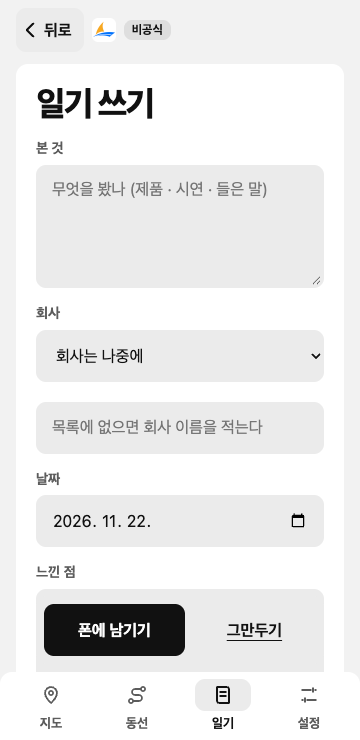
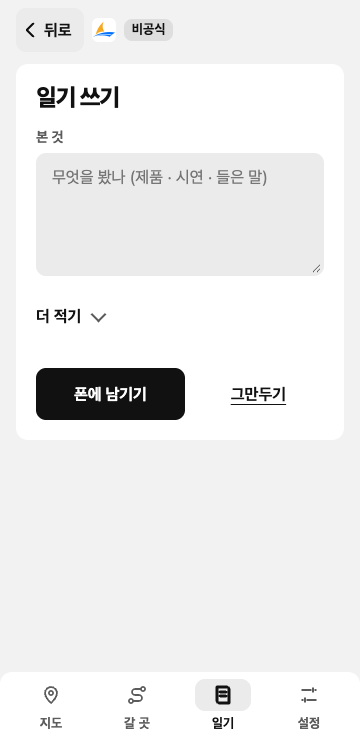
일기 쓰기 첫 화면을 본 것 + 폰에 남기기로 줄인다 (편의성 점검 6절 3 · 12번)
나머지 칸(회사 · 날짜 · 느낀 점 · 사진 · 누구에게 · 대화)은 "더 적기" 아래 접는다. 다녀옴에서 열 때도 일기 탭에서 새로 쓸 때도 같고, 다녀옴에서 열면 제목 아래에 회사 이름 한 줄이 보인다.
적힌 칸이 있는 일기를 고칠 때는 펴 두고, 접힌 칸이 틀리면 펴고 알린다.
다녀옴 띠는 6초 대신 다음에 무엇을 누를 때까지 있고, 띠가 있는 동안 아래 여백을 띠 높이만큼 늘린다.

diff --git a/docs/board/board.single.html b/docs/board/board.single.html
@@ -870,7 +870,7 @@ window.BOARD = {
     {f: 'parts', id: 'ai_plan', t: 'aiface', n: '갈 곳 · 시간과 일정', s: 'done', c: 'web/views/plan.js · web/plancard.js · web/views/days.js · web/views/sessions.js · web/bands.js', d: '날짜 한 줄 · 다음에 갈 곳 한 곳 크게 · 그다음 곳들 · 다녀온 곳 접기 · 회사 카드 · 목록 고치기', ch: '11/24 · 안 1(다음 한 곳 크게)로 다시 지었다. 탭 이름은 "갈 곳"'},
     {f: 'parts', id: 'ai_map', t: 'aiface', n: '지도 (2D · 3D)', s: 'part', c: 'web/views/map.js · web/mapgesture.js · web/mapmath.js · web/mapsheet.js · web/map3d.js', d: '확대 단계 셋 · 홀 칩 · 찾기 칸 · 아래 카드 · 내 갈 곳 · 내 위치 · 길 안내', ch: '11/23 · 폰에서 찾은 것(카드 닫기 × · 찾기 지우기 ×)'},
     {f: 'parts', id: 'ai_talk', t: 'aiface', n: '듣기', s: 'part', c: 'web/views/listen.js', d: '받아 적어 초안'},
-    {f: 'parts', id: 'ai_diary', t: 'aiface', n: '일기', s: 'done', c: 'web/views/diary.js · web/people-ui.js', d: '맨 위 만난 사람 세 명 · 날짜별 일기 · 일기 카드 · 보내기 띠 · 쓰기(본 것 한 칸)', ch: '11/22 · 다시 짓기 6단계: 일기 첫 묶음이 만난 사람, 듣기 · 대화는 일기 쓰기 안으로'},
+    {f: 'parts', id: 'ai_diary', t: 'aiface', n: '일기', s: 'done', c: 'web/views/diary.js · web/people-ui.js', d: '맨 위 만난 사람 세 명 · 날짜별 일기 · 일기 카드 · 보내기 띠 · 쓰기(본 것 한 칸 + 더 적기)', ch: '11/24 · 일기 쓰기 첫 화면을 본 것 + 폰에 남기기로 줄이고 나머지 칸은 "더 적기" 아래 접었다'},
     {f: 'parts', id: 'ai_talkbox', t: 'aiface', n: '대화 칸', s: 'part', c: 'web/views/talk.js', d: '듣기 · 붙여넣기 · 손으로', ch: '11/22'},
     {f: 'parts', id: 'ai_people', t: 'aiface', n: '남의 명함 받기', s: 'part', c: 'web/views/people.js · web/people-ui.js', d: '카메라 · 주소 붙여넣기 · 읽자마자 저장 · 만난 사람 카드', ch: '11/22 · 읽자마자 저장, 같은 사람은 합침'},
     {f: 'parts', id: 'ai_transit', t: 'aiface', n: '공식 셔틀', s: 'part', c: 'web/views/transit.js', d: '노선 · 시간 · 출처 · 확인 필요'},
@@ -1100,12 +1100,12 @@ window.BOARD = {
       ai_people: {name: '남의 명함 받기', kind: '화면', one: '카메라로 읽고 만난 사람으로 남긴다', what: '카메라가 되는 곳은 QR을 읽고, 안 되는 곳은 주소나 아이디를 넣는다.', why: '남의 명함도 명함 교환으로 폰에 남기려고 한다.', how: ['깃허브 · 디스코드 · 링크드인 · https 주소만 받는다', '읽자마자(또는 붙여 넣자마자) 폰에 남기고 이름 적기 카드를 연다. 같은 사람은 새 줄 없이 "이미 있다"', '별명 · 만난 곳 · 메모는 카드에서 나중에 고친다', '회사 일기 쓰기와 만난 사람 수를 잇는다'], rules: ['서버로 보내지 않고 ces2027.people.v1에만 둔다', '카메라가 없거나 권한이 거부되면 주소 붙여넣기 길을 보인다'], fails: ['실제 폰 카메라와 사파리는 아직 확인하지 못했다'], files: ['web/views/people.js', 'web/people-ui.js', 'web/people.js', 'web/scan.js', 'web/people-store.js']},
       ai_find: {name: '찾기 칸 · 추천', kind: '화면', one: '지도 위 찾기 칸과 갈 곳 아래 추천 회사에서 관심에 담는다', what: '지도 탭 맨 위의 찾기 칸(이름 · 분야 · 부스 번호)과 갈 곳 탭 아래의 추천 회사(#/rec).', why: '전시사가 많아 고르는 길이 여럿 있어야 한다.', how: ['낱말은 찾기 코어(WASM)가 찾는다', '영어 낱말(세 글자 이상)이면 회사 두 줄 다음에 세션이 두 줄까지. 누르면 세션 일정이 그 제목으로 찾은 채 열린다(세션 자료는 글자를 칠 때 받는다)', '글자가 있으면 칸 오른쪽에 지우기(×): 누르면 칸이 비고 결과 줄이 닫힌다', '추천: 전체 · 혁신상 · 한국 · 내 분야로 걸러 까닭과 같이 보인다'], calls: ['추천', '찾기 코어'], rules: ['추천은 공식 자료만 근거로 한다'], files: ['web/mapfind.js', 'web/views/rec.js', 'web/company.js']},
       ai_list: {name: '전시사 목록', kind: '화면', one: '전시사 전부를 이름순 · 부스순으로 보고 걸러 관심에 담는다', what: '지도 칩 줄 맨 앞 "목록"(#/list). 공식 앱의 전시사 A–Z 목록을 우리 앱에 둔 것이다.', why: '공식 앱은 목록이 중심이다. 지도만으로는 3,751곳을 훑어보기 어렵다.', how: ['이름순: A ~ Z, 숫자 · 기호로 시작하면 맨 끝 #. 위에 붙은 글자 줄로 바로 간다', '부스순: 위치 묶음 차례 → 부스 번호. 위치 줄로 바로 간다', '거르기: 혁신상 · 한국은 누르면 켜고 끄고, 위치 · 나라 · 분야는 고르는 창(회사 수와 같이)', '찾기: 영문 · 숫자는 이름 · 부스 번호로 바로, 한글은 찾기 코어(한글 별칭 · 분야 이름)', '줄은 60개씩 내릴 때 붙인다. 줄을 누르면 지도에서 그 회사 카드, 뒤로 오면 거르기와 보던 자리가 남는다'], calls: ['찾기 코어'], rules: ['자료는 이 화면을 열 때 받는다(첫 화면에 싣지 않는다)', '고른 거르기는 화면을 떠나도 남지만 폰 저장소에는 두지 않는다'], files: ['web/views/list.js', 'web/exlist.js', 'web/hallgroups.js']},
-      ai_plan: {name: '갈 곳 · 시간과 일정', kind: '화면', one: '지금 어디로 가지? 다음 한 곳을 크게', what: '갈 곳 화면(날짜 한 줄, 다음에 갈 곳 한 곳 크게, 그다음 곳들, 다녀온 곳 접기, 목록 고치기 · 지도에서 보기, 큰 회사 카드), 추천 회사, 내 시간(시간과 일정), 강연 일정.', why: '처음 보는 사람도 화면에서 가장 큰 것을 보고 다음에 갈 곳을 안다. 볼 곳을 시간 안에 넣어야 하루가 된다.', how: ['날짜 한 줄 "‹ 1월 6일 (수) · 남은 4곳 ›"로 날을 넘긴다. 남은 곳은 그 날 회사 가운데 다녀왔다를 누르지 않은 곳이다(내 일정은 세지 않는다, 다 다녀왔으면 "다 다녀옴"). 1/5(전시 전날)는 그 날 넣은 내 일정이 있을 때만, "날짜 없음"은 날짜 없는 곳이 있을 때만 보인다(1/4 매체 전용은 없다)', '다음에 갈 곳: 고른 날의 첫 안 간 곳의 이름 · 부스 · 때, 검정 "길 안내" 하나와 글자 "다녀왔다"', '그다음 곳들: 번호는 지도 번호와 같고, 내 일정은 번호 없는 점선 칸으로 때에 맞는 자리에 선다', '"다녀왔다"를 누르면 그 곳이 "다녀온 곳 n · 보기" 한 줄로 접히고 "일기 쓰기"가 6초 뜬다. 펼친 줄의 "다녀옴" 칸으로 되돌린다', '날짜 없는 곳(지도에서 관심만 담은 곳)이 있으면 어느 날에서나 알린다: 그 날이 비었으면 검정 단추 "날짜 없는 곳 n곳 보기", 아니면 다녀온 곳 줄 아래 작은 한 줄. 누르면 "날짜 없음" 날로 가고 이름을 눌러 날짜를 고른다', '줄을 누르면 큰 회사 카드(길 안내 · 다녀왔다 · 일기 쓰기 · 공식 쪽 · 부스 자리마다 한 줄 · 이 회사 강연 · 다른 날로 옮기기 · 갈 곳에서 빼기). 1/5로는 옮기지 못한다', '목록 고치기: 날짜 없는 곳을 날마다 나누기(쓸 시간과 내 일정을 뺀다) · 가까운 곳끼리 줄 세우기 · 다른 사람에게 보내기(폰의 공유 창) · 하루에 볼 곳 · 받은 목록 넣기', '날마다 "몇 시쯤"과 내 일정을 같이 보인다', '문서 · 표 파일로 내보내기와 시간 · 일정 파일은 설정에 있다'], rules: ['검정 단추는 화면에 "길 안내" 하나', '1/5에는 회사를 넣지 못한다(내 일정만)', '우리 일정은 폰에만 둔다. 레포에 넣지 않는다', '일정은 바뀔 수 있다고 보인다 (운영팀 안내가 먼저)'], calls: ['걷는 차례 · 날 나누기'], files: ['web/views/plan.js', 'web/plancard.js', 'web/views/days.js', 'web/views/sessions.js', 'web/company-extra.js', 'web/bands.js', 'docs/디자인/동선_쉽게_안.md', 'docs/내일정_파일.md'], ch: '2026-11-24 · 안 1(다음 한 곳 크게)로 다시 지었다. 탭 이름 "동선" → "갈 곳", 날짜 칩 → 날짜 한 줄(같은 날 남은 곳 수를 글자로 더함), "안 본 곳" 칩 대신 다녀온 곳 접기. 같은 날 "날짜 없는 곳 n곳 보기"를 더했다(편의성 점검 6절 1번)'},
+      ai_plan: {name: '갈 곳 · 시간과 일정', kind: '화면', one: '지금 어디로 가지? 다음 한 곳을 크게', what: '갈 곳 화면(날짜 한 줄, 다음에 갈 곳 한 곳 크게, 그다음 곳들, 다녀온 곳 접기, 목록 고치기 · 지도에서 보기, 큰 회사 카드), 추천 회사, 내 시간(시간과 일정), 강연 일정.', why: '처음 보는 사람도 화면에서 가장 큰 것을 보고 다음에 갈 곳을 안다. 볼 곳을 시간 안에 넣어야 하루가 된다.', how: ['날짜 한 줄 "‹ 1월 6일 (수) · 남은 4곳 ›"로 날을 넘긴다. 남은 곳은 그 날 회사 가운데 다녀왔다를 누르지 않은 곳이다(내 일정은 세지 않는다, 다 다녀왔으면 "다 다녀옴"). 1/5(전시 전날)는 그 날 넣은 내 일정이 있을 때만, "날짜 없음"은 날짜 없는 곳이 있을 때만 보인다(1/4 매체 전용은 없다)', '다음에 갈 곳: 고른 날의 첫 안 간 곳의 이름 · 부스 · 때, 검정 "길 안내" 하나와 글자 "다녀왔다"', '그다음 곳들: 번호는 지도 번호와 같고, 내 일정은 번호 없는 점선 칸으로 때에 맞는 자리에 선다', '"다녀왔다"를 누르면 그 곳이 "다녀온 곳 n · 보기" 한 줄로 접히고 "일기 쓰기" 띠가 다음에 무엇을 누를 때까지 뜬다(띠가 있는 동안 아래 여백을 띠 높이만큼 늘린다). 펼친 줄의 "다녀옴" 칸으로 되돌린다', '날짜 없는 곳(지도에서 관심만 담은 곳)이 있으면 어느 날에서나 알린다: 그 날이 비었으면 검정 단추 "날짜 없는 곳 n곳 보기", 아니면 다녀온 곳 줄 아래 작은 한 줄. 누르면 "날짜 없음" 날로 가고 이름을 눌러 날짜를 고른다', '줄을 누르면 큰 회사 카드(길 안내 · 다녀왔다 · 일기 쓰기 · 공식 쪽 · 부스 자리마다 한 줄 · 이 회사 강연 · 다른 날로 옮기기 · 갈 곳에서 빼기). 1/5로는 옮기지 못한다', '목록 고치기: 날짜 없는 곳을 날마다 나누기(쓸 시간과 내 일정을 뺀다) · 가까운 곳끼리 줄 세우기 · 다른 사람에게 보내기(폰의 공유 창) · 하루에 볼 곳 · 받은 목록 넣기', '날마다 "몇 시쯤"과 내 일정을 같이 보인다', '문서 · 표 파일로 내보내기와 시간 · 일정 파일은 설정에 있다'], rules: ['검정 단추는 화면에 "길 안내" 하나', '1/5에는 회사를 넣지 못한다(내 일정만)', '우리 일정은 폰에만 둔다. 레포에 넣지 않는다', '일정은 바뀔 수 있다고 보인다 (운영팀 안내가 먼저)'], calls: ['걷는 차례 · 날 나누기'], files: ['web/views/plan.js', 'web/plancard.js', 'web/views/days.js', 'web/views/sessions.js', 'web/company-extra.js', 'web/bands.js', 'docs/디자인/동선_쉽게_안.md', 'docs/내일정_파일.md'], ch: '2026-11-24 · 안 1(다음 한 곳 크게)로 다시 지었다. 탭 이름 "동선" → "갈 곳", 날짜 칩 → 날짜 한 줄(같은 날 남은 곳 수를 글자로 더함), "안 본 곳" 칩 대신 다녀온 곳 접기. 같은 날 "날짜 없는 곳 n곳 보기"를 더했다(편의성 점검 6절 1번). 다녀옴 띠는 6초 대신 다음 누름까지(6절 3 · 12번)'},
       ai_map: {name: '지도 (2D · 3D)', kind: '화면', one: '내 자리 · 부스 · 길 안내', what: '2D 지도가 기본, 3D는 누를 때 불러온다.', why: '이동하는 것이 곧 내가 움직이는 것으로 보이게.', how: ['두 손가락 벌리기 · 두 번 톡 · 끌기. 확대 단계는 캠퍼스 → 홀 → 부스', '확대할수록 홀 이름 → 큰 회사 · 관심 회사 이름 → 부스 번호와 회사 이름 (글자 13px 이상, 겹치면 숨김)', '위 홀 칩을 누르면 그 홀로 날아간다', '맨 위 찾기 칸에서 회사를 찾으면 그 부스로 날아가 카드가 열린다', '회사를 누르면 아래에서 올라오는 카드: 관심 담기 · 갈 곳에 넣기(1/6 ~ 1/9) · 여기까지 길 · 부스가 둘 이상이면 자리마다 한 줄 · 이 회사 세션(제목이 밝힌 이름이 회사 이름과 같은 것만)', '카드는 손잡이를 끌거나(아래로 끌면 닫힘) 오른쪽 위 ×로 닫는다. ×는 카드만 닫고 길 안내는 그대로 둔다. 카드가 열려 있는 동안 페이지는 위아래로 당겨지지 않는다', '카드는 열 때마다 맨 위부터 보인다. 카드 자리에서 시작한 끌기 · 바퀴는 뒤의 지도가 받지 않는다. 찾는 글자를 넣기 시작하면 열려 있던 카드를 닫는다(결과 줄이 가려지지 않게)', '오늘 갈 곳의 회사에 번호 점과 이은 선. 갈 곳 탭에서 "지도에서 보기"로 오면 그 날 번호만 진하고 위에 "1/6 갈 곳 5곳만 보는 중 · 모두 보기"', '아래 "다음 갈 곳" 띠는 고른 날의 회사만 보이고, 그 날 남은 곳이 없으면 띠가 없다', '카드의 "길 안내 시작": 선 · 남은 거리 · 걸어서 몇 분 · 방향, 걸으면 지도가 따라온다 (web/nav.js)', '길 판은 다음에 누를 것을 판 안에 둔다: 위치를 못 쓰면 "가까운 부스 번호" 칸 + 맞추기, 다른 캠퍼스면 "구글맵으로 가기" + "셔틀 보기"(검정 단추는 판에 하나)', '전시사 자료는 홀로 가까이 갈 때 그 홀의 것만 받는다', '셔틀 · 오가는 법(#/transit)으로 간다', '부스에 "명함 넣는 이벤트 있음"을 표시한다 (붉은 테두리)', '내 일정의 공개 장소도 같이 보인다'], rules: ['짐작한 부스 자리는 "짐작"이라고 보인다', '홀 입구·큰 통로 경로도 정식 배치도 전까지 "짐작"이라고 보인다', '구글맵은 링크만 쓴다 (키 없음)'], fails: ['짐작 경로 자료는 data/indoor-paths-guess.json 한 파일에서 바꾼다'], calls: ['위치 · 길 안내', '구글맵 링크'], files: ['web/views/map.js', 'web/mapgesture.js', 'web/mapmath.js', 'web/mapsheet.js', 'web/mapfind.js', 'web/map3d.js', 'web/geo.js', 'scripts/split-halls.mjs', 'data/indoor-paths-guess.json']},
       ai_talk: {name: '듣기', kind: '화면', one: '상대의 영어를 받아 적는다', what: '듣기(#/listen).', why: '부스에서 들은 것을 일기로 잇는다.', how: ['녹음을 알리는 영어 한 줄을 크게 띄우거나 읽어 준다', '듣기: 영어 받아쓰기 뒤 일기 초안', '모델은 크기와 와이파이 안내를 보고 확인한 뒤 받는다 (기본 끔)'], rules: ['첫 화면(지도)에는 모델을 싣지 않는다', '못 하는 것은 숨기지 않고 "이 폰에서는 안 됨"으로 보인다', '폰의 음성 인식 서비스는 한 번 확인받은 뒤에만', '번역은 하지 않는다 (11/22에 지웠다)'], fails: ['실제 폰에서는 아직 확인하지 못했다'], calls: ['말 기능'], files: ['web/views/listen.js', 'data/speech-model.json', 'docs/물어볼말_듣기.md']},
       ai_talkbox: {name: '대화 칸', kind: '화면', one: '회사마다 대화를 넣고 일기 초안으로 잇는다', what: '대화 칸(#/talk/<회사>): 듣기 · 붙여넣기 · 손으로.', why: '부스에서 나눈 대화를 일기로 남기려고.', how: ['복사한 대화를 붙여 넣으면 줄마다 영어 / 한국어로 나누고 위 줄 · 아래 줄 짝을 짓는다', '짝을 못 지으면 한 덩어리로 둔다', '상대 · 나를 바꿀 수 있다', '저장하면 일기 초안이 된다 (들은 것은 상대가 한 영어 원문 줄만)'], rules: ['첫 화면(지도)에 싣지 않는다', '대화는 폰에만 남는다', '녹음하지 않는다'], fails: ['실제 폰에서는 아직 확인하지 못했다'], calls: ['대화 셈'], files: ['web/views/talk.js', 'docs/물어볼말_듣기.md']},
       ac_talk: {name: '대화 셈', kind: '셈', one: '붙인 글을 나눈다', what: 'splitPaste는 붙인 글을 줄로 가르고(이름표 · 시간 · 앱 이름을 떼고) 글자로 영어 / 한국어를 가려 위 줄 · 아래 줄 짝을 짓는다.', why: '화면과 따로 두어 Node에서도 시험한다. 붙인 글에 없는 말을 만들지 않는다.', how: ['한글이 글자의 4분의 1 이상이면 한국어', '줄이 번갈아 나오거나 같은 수의 덩이가 번갈아 나오면 짝, 아니면 한 덩어리'], api: ['splitPaste · handPair · heardOf · draftFromTalk · makeTalk · talkOut'], rules: ['스스로 어디로도 보내지 않는다'], fails: ['복사된 대화가 실제로 어떤 모양인지는 폰에서 확인 전이라, 예시 글 셋으로만 시험했다'], files: ['web/talk.js', 'scripts/smoke.mjs', 'scripts/browser-talk.mjs']},
-      ai_diary: {name: '일기', kind: '화면', one: '본 것 · 느낀 점 · 누구에게', what: '회사마다 쓰는 일기와 보내기.', why: '다녀와서 네 태그로 나누는 재료다.', how: ['듣기와 대화 칸에서 온 초안을 다듬어 남긴다', '보내기를 누르면 아직 보내지 않은 일기가 파일로 내려온다 (이어진 대화도 그 파일에 든다)'], rules: ['보내기를 누른 일기만 밖으로 나간다', '초안과 녹음은 보내지 않는다. 대화는 파일로 내려받을 때만 든다'], files: ['web/views/diary.js', 'web/diary.js']},
+      ai_diary: {name: '일기', kind: '화면', one: '본 것 · 느낀 점 · 누구에게', what: '회사마다 쓰는 일기와 보내기.', why: '다녀와서 네 태그로 나누는 재료다.', how: ['일기 쓰기 첫 화면은 "본 것" 칸 + "폰에 남기기"뿐이다. 회사 · 날짜 · 느낀 점 · 사진 · 누구에게 · 대화는 "더 적기" 아래 접는다(다녀옴에서 열면 제목 아래 회사 이름 한 줄)', '적힌 칸이 있는 일기를 고칠 때는 펴 둔다. 접힌 칸이 틀리면 펴고 알린다', '듣기와 대화 칸에서 온 초안을 다듬어 남긴다', '보내기를 누르면 아직 보내지 않은 일기가 파일로 내려온다 (이어진 대화도 그 파일에 든다)'], rules: ['보내기를 누른 일기만 밖으로 나간다', '초안과 녹음은 보내지 않는다. 대화는 파일로 내려받을 때만 든다'], files: ['web/views/diary.js', 'web/diary.js']},
       ai_transit: {name: '공식 셔틀', kind: '화면', one: '호텔 · Tech Express · C Space 셔틀을 본다', what: '노선별 다니는 곳 · 시간 · 타는 곳 · 구글맵 주소와 출처.', why: '캠퍼스 사이와 호텔 사이 이동을 공식 자료로 준비하려고 한다.', how: ['공식 안내와 무료 교통 전단을 줄마다 읽는다', '시간과 다니는 날이 다르면 확인 필요로 보인다'], rules: ['작년 시간표를 2027로 쓰지 않는다', '실시간 혼잡은 서버 자료가 없어 보이지 않는다'], fails: ['C Space 다니는 날과 교통 허브 주소를 공식 교통 안내로 확인해야 한다'], files: ['web/views/transit.js', 'web/transit.js', 'data/transit.json']},
       ac_route: {name: '걷는 차례 · 날 나누기', kind: '셈', one: '관심 회사를 날짜와 걷는 차례로 세운다', what: '캠퍼스 · 홀 · 통로 차례와, 날마다 볼 수 있는 곳의 수.', why: '화면과 따로 두어 시험할 수 있게.', how: ['날마다 쓸 시간에서 내 일정을 빼고 한 곳에 쓰는 시간으로 나눈다', '제 날에 먼저 넣고 넘치면 다음 날로 넘긴다', '사람이 정한 날은 옮기지 않는다'], api: ['fillDays · sortRoute · nextStop', 'dayLimits · capacity · timeline · readFile · makeFile'], files: ['web/route.js', 'web/days.js']},
       ac_rec: {name: '추천', kind: '셈', one: '혁신상 · 한국 · 내 분야와 세션 주제로 추천한다', what: '공식 자료만 보고 점수를 매기고 까닭을 붙인다.', why: '왜 추천했는지 한 줄로 보여야 믿을 수 있다.', api: ['recommend · myCats · recommend sessions'], rules: ['공식 자료에 없는 것으로 추천하지 않는다'], files: ['web/recommend.js', 'web/sessions.js'], ch: '2026-11-21 · 공식 세션의 주제 추천을 더함'},

diff --git a/docs/board/board-data.js b/docs/board/board-data.js
@@ -131,7 +131,7 @@ window.BOARD = {
     {f: 'parts', id: 'ai_plan', t: 'aiface', n: '갈 곳 · 시간과 일정', s: 'done', c: 'web/views/plan.js · web/plancard.js · web/views/days.js · web/views/sessions.js · web/bands.js', d: '날짜 한 줄 · 다음에 갈 곳 한 곳 크게 · 그다음 곳들 · 다녀온 곳 접기 · 회사 카드 · 목록 고치기', ch: '11/24 · 안 1(다음 한 곳 크게)로 다시 지었다. 탭 이름은 "갈 곳"'},
     {f: 'parts', id: 'ai_map', t: 'aiface', n: '지도 (2D · 3D)', s: 'part', c: 'web/views/map.js · web/mapgesture.js · web/mapmath.js · web/mapsheet.js · web/map3d.js', d: '확대 단계 셋 · 홀 칩 · 찾기 칸 · 아래 카드 · 내 갈 곳 · 내 위치 · 길 안내', ch: '11/23 · 폰에서 찾은 것(카드 닫기 × · 찾기 지우기 ×)'},
     {f: 'parts', id: 'ai_talk', t: 'aiface', n: '듣기', s: 'part', c: 'web/views/listen.js', d: '받아 적어 초안'},
-    {f: 'parts', id: 'ai_diary', t: 'aiface', n: '일기', s: 'done', c: 'web/views/diary.js · web/people-ui.js', d: '맨 위 만난 사람 세 명 · 날짜별 일기 · 일기 카드 · 보내기 띠 · 쓰기(본 것 한 칸)', ch: '11/22 · 다시 짓기 6단계: 일기 첫 묶음이 만난 사람, 듣기 · 대화는 일기 쓰기 안으로'},
+    {f: 'parts', id: 'ai_diary', t: 'aiface', n: '일기', s: 'done', c: 'web/views/diary.js · web/people-ui.js', d: '맨 위 만난 사람 세 명 · 날짜별 일기 · 일기 카드 · 보내기 띠 · 쓰기(본 것 한 칸 + 더 적기)', ch: '11/24 · 일기 쓰기 첫 화면을 본 것 + 폰에 남기기로 줄이고 나머지 칸은 "더 적기" 아래 접었다'},
     {f: 'parts', id: 'ai_talkbox', t: 'aiface', n: '대화 칸', s: 'part', c: 'web/views/talk.js', d: '듣기 · 붙여넣기 · 손으로', ch: '11/22'},
     {f: 'parts', id: 'ai_people', t: 'aiface', n: '남의 명함 받기', s: 'part', c: 'web/views/people.js · web/people-ui.js', d: '카메라 · 주소 붙여넣기 · 읽자마자 저장 · 만난 사람 카드', ch: '11/22 · 읽자마자 저장, 같은 사람은 합침'},
     {f: 'parts', id: 'ai_transit', t: 'aiface', n: '공식 셔틀', s: 'part', c: 'web/views/transit.js', d: '노선 · 시간 · 출처 · 확인 필요'},
@@ -361,12 +361,12 @@ window.BOARD = {
       ai_people: {name: '남의 명함 받기', kind: '화면', one: '카메라로 읽고 만난 사람으로 남긴다', what: '카메라가 되는 곳은 QR을 읽고, 안 되는 곳은 주소나 아이디를 넣는다.', why: '남의 명함도 명함 교환으로 폰에 남기려고 한다.', how: ['깃허브 · 디스코드 · 링크드인 · https 주소만 받는다', '읽자마자(또는 붙여 넣자마자) 폰에 남기고 이름 적기 카드를 연다. 같은 사람은 새 줄 없이 "이미 있다"', '별명 · 만난 곳 · 메모는 카드에서 나중에 고친다', '회사 일기 쓰기와 만난 사람 수를 잇는다'], rules: ['서버로 보내지 않고 ces2027.people.v1에만 둔다', '카메라가 없거나 권한이 거부되면 주소 붙여넣기 길을 보인다'], fails: ['실제 폰 카메라와 사파리는 아직 확인하지 못했다'], files: ['web/views/people.js', 'web/people-ui.js', 'web/people.js', 'web/scan.js', 'web/people-store.js']},
       ai_find: {name: '찾기 칸 · 추천', kind: '화면', one: '지도 위 찾기 칸과 갈 곳 아래 추천 회사에서 관심에 담는다', what: '지도 탭 맨 위의 찾기 칸(이름 · 분야 · 부스 번호)과 갈 곳 탭 아래의 추천 회사(#/rec).', why: '전시사가 많아 고르는 길이 여럿 있어야 한다.', how: ['낱말은 찾기 코어(WASM)가 찾는다', '영어 낱말(세 글자 이상)이면 회사 두 줄 다음에 세션이 두 줄까지. 누르면 세션 일정이 그 제목으로 찾은 채 열린다(세션 자료는 글자를 칠 때 받는다)', '글자가 있으면 칸 오른쪽에 지우기(×): 누르면 칸이 비고 결과 줄이 닫힌다', '추천: 전체 · 혁신상 · 한국 · 내 분야로 걸러 까닭과 같이 보인다'], calls: ['추천', '찾기 코어'], rules: ['추천은 공식 자료만 근거로 한다'], files: ['web/mapfind.js', 'web/views/rec.js', 'web/company.js']},
       ai_list: {name: '전시사 목록', kind: '화면', one: '전시사 전부를 이름순 · 부스순으로 보고 걸러 관심에 담는다', what: '지도 칩 줄 맨 앞 "목록"(#/list). 공식 앱의 전시사 A–Z 목록을 우리 앱에 둔 것이다.', why: '공식 앱은 목록이 중심이다. 지도만으로는 3,751곳을 훑어보기 어렵다.', how: ['이름순: A ~ Z, 숫자 · 기호로 시작하면 맨 끝 #. 위에 붙은 글자 줄로 바로 간다', '부스순: 위치 묶음 차례 → 부스 번호. 위치 줄로 바로 간다', '거르기: 혁신상 · 한국은 누르면 켜고 끄고, 위치 · 나라 · 분야는 고르는 창(회사 수와 같이)', '찾기: 영문 · 숫자는 이름 · 부스 번호로 바로, 한글은 찾기 코어(한글 별칭 · 분야 이름)', '줄은 60개씩 내릴 때 붙인다. 줄을 누르면 지도에서 그 회사 카드, 뒤로 오면 거르기와 보던 자리가 남는다'], calls: ['찾기 코어'], rules: ['자료는 이 화면을 열 때 받는다(첫 화면에 싣지 않는다)', '고른 거르기는 화면을 떠나도 남지만 폰 저장소에는 두지 않는다'], files: ['web/views/list.js', 'web/exlist.js', 'web/hallgroups.js']},
-      ai_plan: {name: '갈 곳 · 시간과 일정', kind: '화면', one: '지금 어디로 가지? 다음 한 곳을 크게', what: '갈 곳 화면(날짜 한 줄, 다음에 갈 곳 한 곳 크게, 그다음 곳들, 다녀온 곳 접기, 목록 고치기 · 지도에서 보기, 큰 회사 카드), 추천 회사, 내 시간(시간과 일정), 강연 일정.', why: '처음 보는 사람도 화면에서 가장 큰 것을 보고 다음에 갈 곳을 안다. 볼 곳을 시간 안에 넣어야 하루가 된다.', how: ['날짜 한 줄 "‹ 1월 6일 (수) · 남은 4곳 ›"로 날을 넘긴다. 남은 곳은 그 날 회사 가운데 다녀왔다를 누르지 않은 곳이다(내 일정은 세지 않는다, 다 다녀왔으면 "다 다녀옴"). 1/5(전시 전날)는 그 날 넣은 내 일정이 있을 때만, "날짜 없음"은 날짜 없는 곳이 있을 때만 보인다(1/4 매체 전용은 없다)', '다음에 갈 곳: 고른 날의 첫 안 간 곳의 이름 · 부스 · 때, 검정 "길 안내" 하나와 글자 "다녀왔다"', '그다음 곳들: 번호는 지도 번호와 같고, 내 일정은 번호 없는 점선 칸으로 때에 맞는 자리에 선다', '"다녀왔다"를 누르면 그 곳이 "다녀온 곳 n · 보기" 한 줄로 접히고 "일기 쓰기"가 6초 뜬다. 펼친 줄의 "다녀옴" 칸으로 되돌린다', '날짜 없는 곳(지도에서 관심만 담은 곳)이 있으면 어느 날에서나 알린다: 그 날이 비었으면 검정 단추 "날짜 없는 곳 n곳 보기", 아니면 다녀온 곳 줄 아래 작은 한 줄. 누르면 "날짜 없음" 날로 가고 이름을 눌러 날짜를 고른다', '줄을 누르면 큰 회사 카드(길 안내 · 다녀왔다 · 일기 쓰기 · 공식 쪽 · 부스 자리마다 한 줄 · 이 회사 강연 · 다른 날로 옮기기 · 갈 곳에서 빼기). 1/5로는 옮기지 못한다', '목록 고치기: 날짜 없는 곳을 날마다 나누기(쓸 시간과 내 일정을 뺀다) · 가까운 곳끼리 줄 세우기 · 다른 사람에게 보내기(폰의 공유 창) · 하루에 볼 곳 · 받은 목록 넣기', '날마다 "몇 시쯤"과 내 일정을 같이 보인다', '문서 · 표 파일로 내보내기와 시간 · 일정 파일은 설정에 있다'], rules: ['검정 단추는 화면에 "길 안내" 하나', '1/5에는 회사를 넣지 못한다(내 일정만)', '우리 일정은 폰에만 둔다. 레포에 넣지 않는다', '일정은 바뀔 수 있다고 보인다 (운영팀 안내가 먼저)'], calls: ['걷는 차례 · 날 나누기'], files: ['web/views/plan.js', 'web/plancard.js', 'web/views/days.js', 'web/views/sessions.js', 'web/company-extra.js', 'web/bands.js', 'docs/디자인/동선_쉽게_안.md', 'docs/내일정_파일.md'], ch: '2026-11-24 · 안 1(다음 한 곳 크게)로 다시 지었다. 탭 이름 "동선" → "갈 곳", 날짜 칩 → 날짜 한 줄(같은 날 남은 곳 수를 글자로 더함), "안 본 곳" 칩 대신 다녀온 곳 접기. 같은 날 "날짜 없는 곳 n곳 보기"를 더했다(편의성 점검 6절 1번)'},
+      ai_plan: {name: '갈 곳 · 시간과 일정', kind: '화면', one: '지금 어디로 가지? 다음 한 곳을 크게', what: '갈 곳 화면(날짜 한 줄, 다음에 갈 곳 한 곳 크게, 그다음 곳들, 다녀온 곳 접기, 목록 고치기 · 지도에서 보기, 큰 회사 카드), 추천 회사, 내 시간(시간과 일정), 강연 일정.', why: '처음 보는 사람도 화면에서 가장 큰 것을 보고 다음에 갈 곳을 안다. 볼 곳을 시간 안에 넣어야 하루가 된다.', how: ['날짜 한 줄 "‹ 1월 6일 (수) · 남은 4곳 ›"로 날을 넘긴다. 남은 곳은 그 날 회사 가운데 다녀왔다를 누르지 않은 곳이다(내 일정은 세지 않는다, 다 다녀왔으면 "다 다녀옴"). 1/5(전시 전날)는 그 날 넣은 내 일정이 있을 때만, "날짜 없음"은 날짜 없는 곳이 있을 때만 보인다(1/4 매체 전용은 없다)', '다음에 갈 곳: 고른 날의 첫 안 간 곳의 이름 · 부스 · 때, 검정 "길 안내" 하나와 글자 "다녀왔다"', '그다음 곳들: 번호는 지도 번호와 같고, 내 일정은 번호 없는 점선 칸으로 때에 맞는 자리에 선다', '"다녀왔다"를 누르면 그 곳이 "다녀온 곳 n · 보기" 한 줄로 접히고 "일기 쓰기" 띠가 다음에 무엇을 누를 때까지 뜬다(띠가 있는 동안 아래 여백을 띠 높이만큼 늘린다). 펼친 줄의 "다녀옴" 칸으로 되돌린다', '날짜 없는 곳(지도에서 관심만 담은 곳)이 있으면 어느 날에서나 알린다: 그 날이 비었으면 검정 단추 "날짜 없는 곳 n곳 보기", 아니면 다녀온 곳 줄 아래 작은 한 줄. 누르면 "날짜 없음" 날로 가고 이름을 눌러 날짜를 고른다', '줄을 누르면 큰 회사 카드(길 안내 · 다녀왔다 · 일기 쓰기 · 공식 쪽 · 부스 자리마다 한 줄 · 이 회사 강연 · 다른 날로 옮기기 · 갈 곳에서 빼기). 1/5로는 옮기지 못한다', '목록 고치기: 날짜 없는 곳을 날마다 나누기(쓸 시간과 내 일정을 뺀다) · 가까운 곳끼리 줄 세우기 · 다른 사람에게 보내기(폰의 공유 창) · 하루에 볼 곳 · 받은 목록 넣기', '날마다 "몇 시쯤"과 내 일정을 같이 보인다', '문서 · 표 파일로 내보내기와 시간 · 일정 파일은 설정에 있다'], rules: ['검정 단추는 화면에 "길 안내" 하나', '1/5에는 회사를 넣지 못한다(내 일정만)', '우리 일정은 폰에만 둔다. 레포에 넣지 않는다', '일정은 바뀔 수 있다고 보인다 (운영팀 안내가 먼저)'], calls: ['걷는 차례 · 날 나누기'], files: ['web/views/plan.js', 'web/plancard.js', 'web/views/days.js', 'web/views/sessions.js', 'web/company-extra.js', 'web/bands.js', 'docs/디자인/동선_쉽게_안.md', 'docs/내일정_파일.md'], ch: '2026-11-24 · 안 1(다음 한 곳 크게)로 다시 지었다. 탭 이름 "동선" → "갈 곳", 날짜 칩 → 날짜 한 줄(같은 날 남은 곳 수를 글자로 더함), "안 본 곳" 칩 대신 다녀온 곳 접기. 같은 날 "날짜 없는 곳 n곳 보기"를 더했다(편의성 점검 6절 1번). 다녀옴 띠는 6초 대신 다음 누름까지(6절 3 · 12번)'},
       ai_map: {name: '지도 (2D · 3D)', kind: '화면', one: '내 자리 · 부스 · 길 안내', what: '2D 지도가 기본, 3D는 누를 때 불러온다.', why: '이동하는 것이 곧 내가 움직이는 것으로 보이게.', how: ['두 손가락 벌리기 · 두 번 톡 · 끌기. 확대 단계는 캠퍼스 → 홀 → 부스', '확대할수록 홀 이름 → 큰 회사 · 관심 회사 이름 → 부스 번호와 회사 이름 (글자 13px 이상, 겹치면 숨김)', '위 홀 칩을 누르면 그 홀로 날아간다', '맨 위 찾기 칸에서 회사를 찾으면 그 부스로 날아가 카드가 열린다', '회사를 누르면 아래에서 올라오는 카드: 관심 담기 · 갈 곳에 넣기(1/6 ~ 1/9) · 여기까지 길 · 부스가 둘 이상이면 자리마다 한 줄 · 이 회사 세션(제목이 밝힌 이름이 회사 이름과 같은 것만)', '카드는 손잡이를 끌거나(아래로 끌면 닫힘) 오른쪽 위 ×로 닫는다. ×는 카드만 닫고 길 안내는 그대로 둔다. 카드가 열려 있는 동안 페이지는 위아래로 당겨지지 않는다', '카드는 열 때마다 맨 위부터 보인다. 카드 자리에서 시작한 끌기 · 바퀴는 뒤의 지도가 받지 않는다. 찾는 글자를 넣기 시작하면 열려 있던 카드를 닫는다(결과 줄이 가려지지 않게)', '오늘 갈 곳의 회사에 번호 점과 이은 선. 갈 곳 탭에서 "지도에서 보기"로 오면 그 날 번호만 진하고 위에 "1/6 갈 곳 5곳만 보는 중 · 모두 보기"', '아래 "다음 갈 곳" 띠는 고른 날의 회사만 보이고, 그 날 남은 곳이 없으면 띠가 없다', '카드의 "길 안내 시작": 선 · 남은 거리 · 걸어서 몇 분 · 방향, 걸으면 지도가 따라온다 (web/nav.js)', '길 판은 다음에 누를 것을 판 안에 둔다: 위치를 못 쓰면 "가까운 부스 번호" 칸 + 맞추기, 다른 캠퍼스면 "구글맵으로 가기" + "셔틀 보기"(검정 단추는 판에 하나)', '전시사 자료는 홀로 가까이 갈 때 그 홀의 것만 받는다', '셔틀 · 오가는 법(#/transit)으로 간다', '부스에 "명함 넣는 이벤트 있음"을 표시한다 (붉은 테두리)', '내 일정의 공개 장소도 같이 보인다'], rules: ['짐작한 부스 자리는 "짐작"이라고 보인다', '홀 입구·큰 통로 경로도 정식 배치도 전까지 "짐작"이라고 보인다', '구글맵은 링크만 쓴다 (키 없음)'], fails: ['짐작 경로 자료는 data/indoor-paths-guess.json 한 파일에서 바꾼다'], calls: ['위치 · 길 안내', '구글맵 링크'], files: ['web/views/map.js', 'web/mapgesture.js', 'web/mapmath.js', 'web/mapsheet.js', 'web/mapfind.js', 'web/map3d.js', 'web/geo.js', 'scripts/split-halls.mjs', 'data/indoor-paths-guess.json']},
       ai_talk: {name: '듣기', kind: '화면', one: '상대의 영어를 받아 적는다', what: '듣기(#/listen).', why: '부스에서 들은 것을 일기로 잇는다.', how: ['녹음을 알리는 영어 한 줄을 크게 띄우거나 읽어 준다', '듣기: 영어 받아쓰기 뒤 일기 초안', '모델은 크기와 와이파이 안내를 보고 확인한 뒤 받는다 (기본 끔)'], rules: ['첫 화면(지도)에는 모델을 싣지 않는다', '못 하는 것은 숨기지 않고 "이 폰에서는 안 됨"으로 보인다', '폰의 음성 인식 서비스는 한 번 확인받은 뒤에만', '번역은 하지 않는다 (11/22에 지웠다)'], fails: ['실제 폰에서는 아직 확인하지 못했다'], calls: ['말 기능'], files: ['web/views/listen.js', 'data/speech-model.json', 'docs/물어볼말_듣기.md']},
       ai_talkbox: {name: '대화 칸', kind: '화면', one: '회사마다 대화를 넣고 일기 초안으로 잇는다', what: '대화 칸(#/talk/<회사>): 듣기 · 붙여넣기 · 손으로.', why: '부스에서 나눈 대화를 일기로 남기려고.', how: ['복사한 대화를 붙여 넣으면 줄마다 영어 / 한국어로 나누고 위 줄 · 아래 줄 짝을 짓는다', '짝을 못 지으면 한 덩어리로 둔다', '상대 · 나를 바꿀 수 있다', '저장하면 일기 초안이 된다 (들은 것은 상대가 한 영어 원문 줄만)'], rules: ['첫 화면(지도)에 싣지 않는다', '대화는 폰에만 남는다', '녹음하지 않는다'], fails: ['실제 폰에서는 아직 확인하지 못했다'], calls: ['대화 셈'], files: ['web/views/talk.js', 'docs/물어볼말_듣기.md']},
       ac_talk: {name: '대화 셈', kind: '셈', one: '붙인 글을 나눈다', what: 'splitPaste는 붙인 글을 줄로 가르고(이름표 · 시간 · 앱 이름을 떼고) 글자로 영어 / 한국어를 가려 위 줄 · 아래 줄 짝을 짓는다.', why: '화면과 따로 두어 Node에서도 시험한다. 붙인 글에 없는 말을 만들지 않는다.', how: ['한글이 글자의 4분의 1 이상이면 한국어', '줄이 번갈아 나오거나 같은 수의 덩이가 번갈아 나오면 짝, 아니면 한 덩어리'], api: ['splitPaste · handPair · heardOf · draftFromTalk · makeTalk · talkOut'], rules: ['스스로 어디로도 보내지 않는다'], fails: ['복사된 대화가 실제로 어떤 모양인지는 폰에서 확인 전이라, 예시 글 셋으로만 시험했다'], files: ['web/talk.js', 'scripts/smoke.mjs', 'scripts/browser-talk.mjs']},
-      ai_diary: {name: '일기', kind: '화면', one: '본 것 · 느낀 점 · 누구에게', what: '회사마다 쓰는 일기와 보내기.', why: '다녀와서 네 태그로 나누는 재료다.', how: ['듣기와 대화 칸에서 온 초안을 다듬어 남긴다', '보내기를 누르면 아직 보내지 않은 일기가 파일로 내려온다 (이어진 대화도 그 파일에 든다)'], rules: ['보내기를 누른 일기만 밖으로 나간다', '초안과 녹음은 보내지 않는다. 대화는 파일로 내려받을 때만 든다'], files: ['web/views/diary.js', 'web/diary.js']},
+      ai_diary: {name: '일기', kind: '화면', one: '본 것 · 느낀 점 · 누구에게', what: '회사마다 쓰는 일기와 보내기.', why: '다녀와서 네 태그로 나누는 재료다.', how: ['일기 쓰기 첫 화면은 "본 것" 칸 + "폰에 남기기"뿐이다. 회사 · 날짜 · 느낀 점 · 사진 · 누구에게 · 대화는 "더 적기" 아래 접는다(다녀옴에서 열면 제목 아래 회사 이름 한 줄)', '적힌 칸이 있는 일기를 고칠 때는 펴 둔다. 접힌 칸이 틀리면 펴고 알린다', '듣기와 대화 칸에서 온 초안을 다듬어 남긴다', '보내기를 누르면 아직 보내지 않은 일기가 파일로 내려온다 (이어진 대화도 그 파일에 든다)'], rules: ['보내기를 누른 일기만 밖으로 나간다', '초안과 녹음은 보내지 않는다. 대화는 파일로 내려받을 때만 든다'], files: ['web/views/diary.js', 'web/diary.js']},
       ai_transit: {name: '공식 셔틀', kind: '화면', one: '호텔 · Tech Express · C Space 셔틀을 본다', what: '노선별 다니는 곳 · 시간 · 타는 곳 · 구글맵 주소와 출처.', why: '캠퍼스 사이와 호텔 사이 이동을 공식 자료로 준비하려고 한다.', how: ['공식 안내와 무료 교통 전단을 줄마다 읽는다', '시간과 다니는 날이 다르면 확인 필요로 보인다'], rules: ['작년 시간표를 2027로 쓰지 않는다', '실시간 혼잡은 서버 자료가 없어 보이지 않는다'], fails: ['C Space 다니는 날과 교통 허브 주소를 공식 교통 안내로 확인해야 한다'], files: ['web/views/transit.js', 'web/transit.js', 'data/transit.json']},
       ac_route: {name: '걷는 차례 · 날 나누기', kind: '셈', one: '관심 회사를 날짜와 걷는 차례로 세운다', what: '캠퍼스 · 홀 · 통로 차례와, 날마다 볼 수 있는 곳의 수.', why: '화면과 따로 두어 시험할 수 있게.', how: ['날마다 쓸 시간에서 내 일정을 빼고 한 곳에 쓰는 시간으로 나눈다', '제 날에 먼저 넣고 넘치면 다음 날로 넘긴다', '사람이 정한 날은 옮기지 않는다'], api: ['fillDays · sortRoute · nextStop', 'dayLimits · capacity · timeline · readFile · makeFile'], files: ['web/route.js', 'web/days.js']},
       ac_rec: {name: '추천', kind: '셈', one: '혁신상 · 한국 · 내 분야와 세션 주제로 추천한다', what: '공식 자료만 보고 점수를 매기고 까닭을 붙인다.', why: '왜 추천했는지 한 줄로 보여야 믿을 수 있다.', api: ['recommend · myCats · recommend sessions'], rules: ['공식 자료에 없는 것으로 추천하지 않는다'], files: ['web/recommend.js', 'web/sessions.js'], ch: '2026-11-21 · 공식 세션의 주제 추천을 더함'},

diff --git a/web/views/diary.js b/web/views/diary.js
@@ -68,7 +68,9 @@ function photoBox(e) {
   return box;
 }
 
-// 일기 쓰기: 필수는 "본 것" 한 칸이다. 날짜는 오늘로 채우고, 회사는 동선의 "일기"에서 오면 미리 채운다(없어도 된다).
+// 일기 쓰기: 필수는 "본 것" 한 칸이다. 날짜는 오늘로 채우고, 회사는 갈 곳의 "일기 쓰기"에서 오면 미리 채운다(없어도 된다).
+// 첫 화면은 "본 것" 칸 + "폰에 남기기"뿐이다. 나머지 칸(회사 · 날짜 · 느낀 점 · 사진 · 누구에게 · 대화)은 "더 적기" 아래 접는다(2026-11-24, 편의성 점검 6절 3번).
+// 이미 적힌 칸이 있는 일기를 고칠 때와, 적다 만 느낀 점이 돌아올 때는 펴 둔다(적힌 것이 숨지 않게).
 // 적던 글은 폰에 남겨 앱을 닫아도 돌아온다(남기기 전까지). 누구에게는 마지막에 고른 것을 기억한다.
 const DRAFT = 'diaryDraft.v1';
 const LAST_TAGS = 'diaryTags.v1';
@@ -149,24 +151,39 @@ function form(entry, preset, companies, done) {
   saw.addEventListener('input', keepDraft);
   felt.addEventListener('input', keepDraft);
 
+  // 어느 회사 일기인지: 회사 칸이 접혀 있어도 제목 아래 한 줄로 보인다(회사가 없으면 줄도 없다). 회사를 바꾸면 따라 바뀐다.
+  const whoLine = el('p', { class: 'note diary-who' });
+  const paintWho = () => { const c = companies.find((x) => x.id === pick.value); whoLine.textContent = c ? c.name : other.value.trim(); whoLine.hidden = !whoLine.textContent; };
+  pick.addEventListener('change', paintWho);
+  other.addEventListener('input', paintWho);
+  paintWho();
+  // "더 적기": 고칠 때는 적힌 칸이 하나라도 있으면 펴 둔다. 새로 쓸 때는 접어 둔다(미리 채운 회사 · 날짜 · 누구에게는 적은 것으로 치지 않는다).
+  const filled = entry ? Boolean(entry.company || entry.exId || entry.felt || entry.photo || entry.heard?.length || entry.audio || (entry.for || []).length) : Boolean(back?.felt);
+  const more = el('details', { class: 'more', open: filled },
+    el('summary', { text: '더 적기' }),
+    el('div', { class: 'more-body' },
+      field('회사', pick), field('', other),
+      field('날짜', date),
+      entry ? el('div', { class: 'entry' }, heardBox(entry), entry.audio ? el('p', { class: 'note', text: '녹음은 일기 카드에서 듣는다.' }) : null) : null,
+      field('느낀 점', felt),
+      el('div', { class: 'field photo-field' }, el('span', { class: 'label', text: '사진 (한 장, 선택)' }), photoImg, el('div', { class: 'row-actions' }, photoPick, photoDrop, photoFile), photoNote),
+      el('div', { class: 'field' }, el('span', { class: 'label', text: '누구에게 (여럿 가능)' }), tags),
+      talkRow));
+
   const node = el('form', { class: 'panel form', novalidate: true },
     el('h1', { text: entry?.draft ? '일기 초안 다듬기' : entry ? '일기 고치기' : '일기 쓰기' }),
+    whoLine,
     entry?.draft ? el('p', { class: 'note', text: '초안이다. 다듬어 남기기 전에는 보내지 않는다.' }) : null,
     field('본 것', saw),
-    field('회사', pick), field('', other),
-    field('날짜', date),
-    entry ? el('div', { class: 'entry' }, heardBox(entry), entry.audio ? el('p', { class: 'note', text: '녹음은 일기 카드에서 듣는다.' }) : null) : null,
-    field('느낀 점', felt),
-    el('div', { class: 'field photo-field' }, el('span', { class: 'label', text: '사진 (한 장, 선택)' }), photoImg, el('div', { class: 'row-actions' }, photoPick, photoDrop, photoFile), photoNote),
-    el('div', { class: 'field' }, el('span', { class: 'label', text: '누구에게 (여럿 가능)' }), tags),
-    talkRow,
+    more,
     error,
     el('div', { class: 'dock' },
       el('button', { class: 'btn', type: 'submit', text: '폰에 남기기' }),
       el('button', { class: 'btn ghost', type: 'button', text: '그만두기', onclick: () => { if (fresh) save(DRAFT, null); done(); } })));
   node.addEventListener('submit', async (ev) => {
     ev.preventDefault();
-    const fail = (msg, input) => { error.textContent = msg; error.hidden = false; input?.focus(); };
+    // 접힌 칸이 틀렸으면 펴고 그 칸으로 간다.
+    const fail = (msg, input) => { error.textContent = msg; error.hidden = false; if (input && more.contains(input)) more.open = true; input?.focus(); };
     const chosen = companies.find((c) => c.id === pick.value);
     const company = chosen ? chosen.name : other.value.trim();
     if (!/^\d{4}-\d\d-\d\d$/.test(date.value)) return fail('날짜를 고른다.', date);

diff --git a/web/views/plan.js b/web/views/plan.js
@@ -69,14 +69,26 @@ export async function render() {
   const shell = createCardShell();
   window.addEventListener('hashchange', () => { shell.close(); hideToast(); }, { once: true });
 
-  // 탭 바로 위에 6초 뜨는 한 줄: "OO 다녀왔다 · 일기 쓰기", "OO 뺐다 · 되돌리기".
+  // 탭 바로 위에 뜨는 한 줄. "OO 다녀왔다 · 일기 쓰기"는 다음에 무엇을 누를 때까지 있고(stay), "OO 뺐다 · 되돌리기"는 6초 뜬다.
+  // 띠가 있는 동안 화면 아래 여백을 띠 높이만큼 늘린다(끝까지 굴리면 "목록 고치기 · 지도에서 보기" 줄이 띠 위로 올라온다).
   const toast = el('div', { class: 'toast', role: 'status', hidden: true });
-  function hideToast() { clearTimeout(showToast.t); toast.hidden = true; toast.replaceChildren(); }
-  function showToast(text, action) {
+  const onNextPress = (ev) => { if (!toast.contains(ev.target)) hideToast(); };
+  function hideToast() {
+    clearTimeout(showToast.t);
+    clearTimeout(showToast.arm);
+    document.removeEventListener('click', onNextPress, true);
+    toast.hidden = true;
+    toast.replaceChildren();
+    toast.parentNode?.style.removeProperty('--toast-h');
+  }
+  function showToast(text, action, stay = false) {
+    hideToast();
     toast.replaceChildren(el('span', { class: 'toast-text', text }), action);
     toast.hidden = false;
-    clearTimeout(showToast.t);
-    showToast.t = setTimeout(hideToast, 6000);
+    // 지금 이 누름이 띠를 바로 지우지 않게, 다음 누름부터 듣는다.
+    if (stay) showToast.arm = setTimeout(() => document.addEventListener('click', onNextPress, true), 0);
+    else showToast.t = setTimeout(hideToast, 6000);
+    toast.parentNode?.style.setProperty('--toast-h', `${toast.offsetHeight + 12}px`);
   }
 
   // 지금 보는 날: 넘겨 둔 날 → 오늘 → 갈 곳이 남은 첫 날 → 넣은 곳이 있는 첫 날 → 전시 첫날.
@@ -102,10 +114,10 @@ export async function render() {
   let foldOpen = false; // "다녀온 곳 · 보기"를 펼쳤나
   const change = (fn, note) => { setInterests(fn(getInterests())); status.textContent = note || ''; draw(); };
   const diaryLink = (id) => el('a', { class: 'pick', href: `#/diary/new/${id}`, text: '일기 쓰기' });
-  // 다녀왔다: 그 곳이 목록에서 빠져 "다녀온 곳"으로 가고, 아래에 "일기 쓰기"가 6초 뜬다(카드가 열려 있으면 카드 안에 같은 단추가 있다).
+  // 다녀왔다: 그 곳이 목록에서 빠져 "다녀온 곳"으로 가고, 아래에 "일기 쓰기"가 다음에 무엇을 누를 때까지 뜬다(카드가 열려 있으면 카드 안에 같은 단추가 있다).
   const setSeen = (id, seen) => {
     change((l) => l.map((x) => (x.id === id ? { ...x, seen } : x)));
-    if (seen && !shell.isOpen && byId.has(id)) showToast(`${nameOf(id)} 다녀왔다.`, diaryLink(id));
+    if (seen && !shell.isOpen && byId.has(id)) showToast(`${nameOf(id)} 다녀왔다.`, diaryLink(id), true);
     else hideToast();
   };
   const setDay = (id, key) => { showDay(key); change((l) => l.map((x) => (x.id === id ? { ...x, day: key } : x)), `${longDay(dayOf(key))}${key ? '로' : '으로'} 옮겼다.`); };

diff --git a/web/app.css b/web/app.css
@@ -144,7 +144,8 @@ body:has(.mappage) .bar .tag { display: none; }
 .check i { display: grid; place-items: center; width: 26px; height: 26px; border: 2px solid var(--ink-2); border-radius: var(--radius-tag); }
 .check.on i { background: var(--accent); border-color: var(--accent); }
 .check svg { width: 16px; height: 16px; fill: none; stroke: var(--on-accent); stroke-width: 2.4; stroke-linecap: round; stroke-linejoin: round; }
-/* 탭 바로 위에 6초 뜨는 한 줄: "OO 다녀왔다 · 일기 쓰기" */
+/* 탭 바로 위에 뜨는 한 줄: "OO 다녀왔다 · 일기 쓰기"(다음에 무엇을 누를 때까지) · "OO 뺐다 · 되돌리기"(6초). 띠가 있는 동안 화면 아래 여백을 띠 높이만큼 늘린다 */
+.planpage { padding-bottom: var(--toast-h, 0px); }
 .toast { position: fixed; left: var(--s4); right: var(--s4); bottom: calc(var(--tabs) + env(safe-area-inset-bottom) + var(--s3)); z-index: 8; display: flex; align-items: center; justify-content: space-between; gap: var(--s3); max-width: calc(var(--column) - var(--s6)); margin: 0 auto; padding: var(--s1) var(--s2) var(--s1) var(--s4); border-radius: var(--radius); background: var(--btn); color: var(--on-btn); font-size: var(--fs-small); font-weight: 700; }
 .toast-text { min-width: 0; overflow-wrap: anywhere; }
 .toast .pick { flex: none; color: var(--on-btn); font-size: var(--fs-body); }
@@ -286,8 +287,16 @@ input[type="date"], input[type="time"] { -webkit-appearance: none; appearance: n
 .topic-link { display: grid; grid-template-columns: 28px 1fr; gap: 10px; align-items: start; min-height: var(--tap); color: var(--ink); text-decoration: none; }
 .topic-name { display: grid; gap: 2px; min-width: 0; overflow-wrap: anywhere; }
 .topic-name small { font-size: var(--fs-note); color: var(--ink-2); }
-details.more > summary { min-height: var(--tap-min); display: flex; align-items: center; font-weight: 700; color: var(--ink); cursor: pointer; }
+/* "더 적기": 접어 둔 칸들. 줄 전체가 눌리고, 글자 바로 옆 꺾쇠가 접힘(아래) · 펼침(위)을 알린다 */
+details.more { justify-self: stretch; }
+details.more > summary { min-height: var(--tap); display: flex; align-items: center; gap: var(--s3); width: 100%; list-style: none; font-weight: 700; color: var(--ink); cursor: pointer; }
+details.more > summary::-webkit-details-marker { display: none; }
+details.more > summary::after { content: ''; flex: none; width: 9px; height: 9px; margin: 0 6px 4px 0; border-right: 2px solid var(--ink-2); border-bottom: 2px solid var(--ink-2); transform: rotate(45deg); }
+details.more[open] > summary::after { margin-bottom: -4px; transform: rotate(-135deg); }
 details.more[open] > summary { margin-bottom: var(--s2); }
+.more-body { display: grid; gap: 14px; }
+.diary-who { margin-top: calc(var(--s2) * -1); font-weight: 700; overflow-wrap: anywhere; }
+.diary-who[hidden] { display: none; }
 
 /* ---- 갈 곳의 줄 ---- */
 .stops { display: grid; gap: var(--s2); }

diff --git a/요구사항.md b/요구사항.md
@@ -53,7 +53,7 @@
 | R11 | 빨리 열림 (Rust) | 말3 | 앱을 열면 나오는 지도 2초 안(폰 · 4G), 두 번째부터 네트워크 없이 | M1 (재기 M2) |
 | R12 | 내 위치 · 다음 갈 곳 | 말4 · 말5 | GPS로 캠퍼스 · 홀까지 맞추고, 홀 안은 가까운 부스 번호로 맞춘다. 걸으면 지도가 나를 따라오고 다음 갈 곳이 보인다 | M2 |
 | R13 | 구글맵 연동 | 말3 | 장소마다 "구글맵에서 열기", 캠퍼스 사이 길찾기. API 키 없이 | M2 |
-| R14 | 회사 일기 | 말4 | 본 회사마다 날짜 · 본 것 · 느낀 점 · 누구에게(네 태그)를 쓴다 | M2 |
+| R14 | 회사 일기 | 말4 | 본 회사마다 날짜 · 본 것 · 느낀 점 · 누구에게(네 태그)를 쓴다. **11/24에 더함(편의성 점검 6절 3번, 이재엽이 버튼으로 정함):** 일기 쓰기 첫 화면은 "본 것" 칸 + "폰에 남기기"뿐이고, 나머지 칸(회사 · 날짜 · 느낀 점 · 사진 · 누구에게 · 대화)은 "더 적기" 아래 접는다. 다녀옴에서 열 때도 일기 탭에서 새로 쓸 때도 같다(다녀옴에서 열면 제목 아래 회사 이름 한 줄). 접힌 채 남겨도 회사 · 날짜 · 마지막에 고른 누구에게는 같이 저장된다. 적힌 칸이 있는 일기를 고칠 때는 펴 둔다. 360px에서 "폰에 남기기"가 굴리지 않고 보인다(가운데 y 945 → 394, 글자 가장 크게 1091 → 462. 다녀옴에서 열면 971 → 421, 1117 → 498) | M2 |
 | R15 | 모아서 네 태그로 정리 | 말4 · 말5 | 보내기를 누른 일기가 한곳에 모이고, 네 태그(학생 · 취준생 · 정년 · 장년)로 나눈 한 장이 된다 | M2 (보내기) · M5 (정리) |
 | R16 | 공개 레포 하나 · archi-board · 차례 | 말3 · 말5 | 코드 · 보드 · 이정표 · 이슈가 이 레포에 있고, 이슈 차례가 ROADMAP.md와 같다 | 기초 |
 | R17 | 끝나면 비공개 | 말5 | 정리가 끝나면 레포를 비공개로 돌리고 페이지를 내린다 | M5 |
@@ -94,7 +94,7 @@
 | R52 | 설정의 "이 폰의 내 자료 지우기" | 말 (11/22 이재엽이 버튼으로 정함) | 두 번 확인한다. 첫 확인에서 먼저 내보내기를 권하고(내보내기 단추가 같이 있다) 둘째 확인 뒤에 이 폰의 일기 · 만난 사람 · 동선 · 관심 · 내 명함 · 설정을 지운다. 지운 뒤에는 처음 들어온 것처럼 첫 실행 명함부터 시작하고, 앱 껍데기(인터넷 없이 열리는 캐시)는 남는다. "받아 둔 모델 비우기" 줄과 이름 · 설명이 나뉜다 | M2 |
 | R53 | 전시사 목록 (공식 앱의 A–Z 목록 + 거르기) | 말16 · 말11 · 말14 | 지도 칩 줄 맨 앞 "목록"(`#/list`)에서 전시사 전부를 이름순(A ~ Z, 숫자 · 기호는 #)으로 보고 위에 붙은 글자 줄로 바로 간다. 부스순으로 바꾸면 위치 묶음 → 부스 번호 차례이고 위치 줄로 바로 간다. 거르기는 혁신상 · 한국 · 위치(홀 칩 묶음 + 그 밖 장소) · 나라 · 분야이고, 영문 · 숫자는 이름 · 부스 번호로, 한글은 한글 별칭 · 분야 이름으로 찾는다. 줄에는 이름 · 홀 · 부스 번호(부스가 여럿이면 "외 n곳") · 분야 둘 · 혁신상 · 한국 표시와 "관심" 단추가 있고, 줄을 누르면 지도에서 그 회사 카드가 열리며 뒤로 오면 거르기와 보던 자리가 남는다. 자료는 이 화면을 열 때 받고 줄은 60개씩 붙인다. 360px · 가장 큰 글자에서 넘침 0, 누르는 곳 44px 이상, 받은 날짜를 보인다 (2026-11-23) | M2 |
 | R54 | 세션 찾기 · 거르기 칩 (공식 앱 검색의 세션 칸 · 일정의 "거르기 · 주요") | 말16 · 말11 | 세션 일정의 날짜 칩 아래에 거르기 칩 넷(기조연설 · 생중계 · 내 일정 · 분야 ▾)이 있다. 분야는 분야표(`data/categories.json`)의 묶음 일곱 + "그 밖"이고 세션 수와 같이 고른다. 켜면 그 날 목록과 날짜 칩의 개수가 같이 준다. 지도 위 찾기 칸에 영어 낱말(세 글자 이상)을 넣으면 회사 두 줄 다음에 세션이 두 줄까지(제목 · 날짜 · 시각 · 곳) 나오고, 누르면 세션 일정이 그 제목으로 찾은 채 열린다(`#/sessions/q/<낱말>`). 한글 낱말에는 세션을 붙이지 않는다(세션 자료가 영어다). 세션 자료는 글자를 칠 때 받는다 (2026-11-23) | M2 |
-| R55 | 갈 곳 탭: 다음 한 곳 크게 (동선을 처음 보는 사람도 알게) | 말17 | 둘째 탭의 이름이 "갈 곳"이다. 화면은 날짜 한 줄 "‹ 1월 6일 (수) · 남은 4곳 ›"(남은 곳 수는 11/24에 더했다, R47) → **다음에 갈 곳** 한 곳 크게(이름 · 부스 · 때 · 검정 "길 안내" 하나 · 글자 "다녀왔다") → "그다음 n곳"(번호는 지도와 같다, 내 일정은 번호 없는 점선 칸) → "다녀온 곳 n · 보기"로 접기 → "목록 고치기 · 지도에서 보기" 차례다. "다녀왔다"를 누르면 "OO 다녀왔다 · 일기 쓰기"가 6초 뜬다. 다음에 갈 곳과 지도의 "다음 갈 곳" 띠 · "이 날 보기" 띠는 고른 날의 회사만 본다. 1/5(전시 전날)에는 회사를 넣지 못한다. 종이 명함 물음은 설정의 "종이 명함" 줄에만 있다. 회사 카드 첫 화면은 이름 · 부스 · 길 안내 · 다녀왔다 · 일기 쓰기 · 공식 쪽이고 검정 단추는 화면에 하나다. 말은 [docs/디자인/동선_쉽게_안.md](docs/디자인/동선_쉽게_안.md) 1.2대로 바꿨다(차례 정리 → 목록 고치기 · 미정 → 날짜 없음 · 아직 / 봤다 → 다녀옴 칸 · 세션 → 강연 일정 · 자리 짐작 → 자리는 짐작 …). 문서 · 표 파일로 내보내기와 시간 · 일정 파일은 설정으로 옮겼다. 360 · 390px, 밝게 · 어둡게, 글자 네 단계에서 옆으로 밀리지 않고 누르는 곳이 44px 이상이며 첫 화면(스크롤 전)에서 누를 곳은 9개다(전 13) (2026-11-23 ~ 24). **11/24에 더함(편의성 점검 6절 1번, 이재엽이 버튼으로 정함):** 지도에서 "관심 담기"만 누른 회사(날짜 없음)가 갈 곳에서 길을 잃지 않게, 날짜 없는 곳이 있으면 어느 날에서나 알린다. 그 날에 넣은 곳이 없으면 "이 날 넣은 곳이 없다." 바로 아래 검정 단추 "날짜 없는 곳 n곳 보기", 넣은 곳이 있으면 다녀온 곳 줄 아래 작은 한 줄 "날짜 없는 곳 n곳 · 보기"다. 누르면 "날짜 없음" 날로 가고(전: 다음 날을 네 번) 이름을 눌러 카드에서 날짜를 고른다. "관심 담기"가 하는 일(날짜 없이 담기)은 그대로다 | M2 |
+| R55 | 갈 곳 탭: 다음 한 곳 크게 (동선을 처음 보는 사람도 알게) | 말17 | 둘째 탭의 이름이 "갈 곳"이다. 화면은 날짜 한 줄 "‹ 1월 6일 (수) · 남은 4곳 ›"(남은 곳 수는 11/24에 더했다, R47) → **다음에 갈 곳** 한 곳 크게(이름 · 부스 · 때 · 검정 "길 안내" 하나 · 글자 "다녀왔다") → "그다음 n곳"(번호는 지도와 같다, 내 일정은 번호 없는 점선 칸) → "다녀온 곳 n · 보기"로 접기 → "목록 고치기 · 지도에서 보기" 차례다. "다녀왔다"를 누르면 "OO 다녀왔다 · 일기 쓰기"가 다음에 무엇을 누를 때까지 뜬다(11/24, 전: 6초. 띠가 있는 동안 아래 여백을 띠 높이만큼 늘린다). 다음에 갈 곳과 지도의 "다음 갈 곳" 띠 · "이 날 보기" 띠는 고른 날의 회사만 본다. 1/5(전시 전날)에는 회사를 넣지 못한다. 종이 명함 물음은 설정의 "종이 명함" 줄에만 있다. 회사 카드 첫 화면은 이름 · 부스 · 길 안내 · 다녀왔다 · 일기 쓰기 · 공식 쪽이고 검정 단추는 화면에 하나다. 말은 [docs/디자인/동선_쉽게_안.md](docs/디자인/동선_쉽게_안.md) 1.2대로 바꿨다(차례 정리 → 목록 고치기 · 미정 → 날짜 없음 · 아직 / 봤다 → 다녀옴 칸 · 세션 → 강연 일정 · 자리 짐작 → 자리는 짐작 …). 문서 · 표 파일로 내보내기와 시간 · 일정 파일은 설정으로 옮겼다. 360 · 390px, 밝게 · 어둡게, 글자 네 단계에서 옆으로 밀리지 않고 누르는 곳이 44px 이상이며 첫 화면(스크롤 전)에서 누를 곳은 9개다(전 13) (2026-11-23 ~ 24). **11/24에 더함(편의성 점검 6절 1번, 이재엽이 버튼으로 정함):** 지도에서 "관심 담기"만 누른 회사(날짜 없음)가 갈 곳에서 길을 잃지 않게, 날짜 없는 곳이 있으면 어느 날에서나 알린다. 그 날에 넣은 곳이 없으면 "이 날 넣은 곳이 없다." 바로 아래 검정 단추 "날짜 없는 곳 n곳 보기", 넣은 곳이 있으면 다녀온 곳 줄 아래 작은 한 줄 "날짜 없는 곳 n곳 · 보기"다. 누르면 "날짜 없음" 날로 가고(전: 다음 날을 네 번) 이름을 눌러 카드에서 날짜를 고른다. "관심 담기"가 하는 일(날짜 없이 담기)은 그대로다 | M2 |
 | R56 | 내 명함에 링크드인 칸 + QR | 말 (11/24 이재엽 메모 "링크드인 필수 · 링크드인 QR 공유 활발", 버튼으로 "링크드인 QR만 먼저") | 명함 만들기 · 고치기의 "더 적기 (선택)"에 링크드인 칸이 하나 있다(건너뛸 수 있다, 꼭 적을 것은 지금처럼 별명과 나뿐). 프로필 주소 전체(www. · kr. · 뒤에 ?… 가 붙은 것)를 붙여도, 아이디만 적어도 같은 프로필 주소(`https://www.linkedin.com/in/아이디`)가 된다. 회사 쪽 · 줄인 주소 · 이름처럼 틀린 글은 그 칸 바로 아래에 한 줄로 알리고 저장하지 않는다(깃허브 · 디스코드 칸도 같은 꼴로 알린다). 적으면 내 명함의 QR 차례가 링크드인 → 깃허브 → 디스코드이고 적은 것만 보인다(빈 자리 표시는 없다). QR이 홀수 개(하나 · 셋)면 맨 앞 것이 크게 한 줄을 차지하고 나머지는 둘씩 나란히 선다. QR은 지금과 같은 길로 인터넷 없이 만든다. 링크드인 칸이 없는 옛 명함 · 옛 QR · 옛 일기 파일은 그대로 읽힌다. 링크드인은 명함과 같은 자리(이 폰)에만 있어 "이 폰의 내 자료 지우기"에 같이 지워지고, **일기 내보내기 파일에는 링크드인 주소를 넣지 않는다**(이재엽이 11/24에 정함). 전처럼 별명과 태그만 간다(깃허브 · 디스코드 주소도 가지 않는다). 360 · 390px, 밝게 · 어둡게, 글자 네 단계에서 옆으로 밀리지 않고 누르는 곳이 44px 이상이다. 하지 않는 것: 배경화면용 QR 그림 저장 · 팔로우 알림 · 링크드인 로그인과 API (2026-11-24. 이재엽이 11/24 밤에 병합을 정했다, PR #93) | M2 |
 
 ## 4. 정할 것

diff --git a/design.md b/design.md
@@ -41,13 +41,14 @@ CES 2027 준비 지도(비공식)의 화면은 이 한 장을 따른다. 색 · 
   - "그다음 n곳": 줄에는 번호(지도와 같다) · 이름 · 때와 곳. 줄 전체가 눌리고 회사 카드가 열린다. 내 일정은 번호 없는 점선 칸 "12:00 ~ 13:00 · 팀 점심 (내 일정)"으로 때에 맞는 자리에 선다.
   - 다녀온 곳은 "다녀온 곳 n · 보기" 한 줄로 접는다("안 본 곳" 칩은 따로 없다). 펼친 줄의 "다녀옴" 칸을 누르면 갈 곳으로 돌아온다.
   - **날짜 없는 곳(관심만 담은 곳)은 어느 날을 보고 있어도 알린다(11/24):** 그 날에 넣은 곳이 없으면 "이 날 넣은 곳이 없다." 바로 아래 검정 단추 "날짜 없는 곳 n곳 보기" 하나(이 화면에 길 안내가 없을 때라 검정 단추는 그대로 하나다), 넣은 곳이 있으면 다녀온 곳 줄 아래에 작은 한 줄 "날짜 없는 곳 n곳 · 보기". 누르면 "날짜 없음" 날로 가고, 거기서 이름을 눌러 카드에서 날짜를 고른다. n은 날짜 없는 곳 가운데 다녀왔다를 누르지 않은 수이고 0이면 보이지 않는다.
-  - "다녀왔다"를 누르면 탭 바로 위에 "OO 다녀왔다 · 일기 쓰기"가 6초 뜬다. 빼면 "OO 뺐다 · 되돌리기"가 같은 자리에 뜬다.
+  - "다녀왔다"를 누르면 탭 바로 위에 "OO 다녀왔다 · 일기 쓰기"가 뜬다. 6초에 사라지지 않고 다음에 무엇을 누를 때까지 있다(11/24). 띠가 있는 동안 화면 아래 여백을 띠 높이만큼 늘려, 끝까지 굴리면 "목록 고치기 · 지도에서 보기" 줄이 띠 위로 올라온다. 빼면 "OO 뺐다 · 되돌리기"가 같은 자리에 6초 뜬다.
   - 맨 아래 "목록 고치기 · 지도에서 보기", 그 아래 글자 링크 한 줄 "강연 일정 · 추천 회사 · 내 시간". 목록 고치기 카드에는 날짜 없는 곳을 날마다 나누기 · 가까운 곳끼리 줄 세우기 · 다른 사람에게 보내기(폰의 공유 창) · 하루에 볼 곳 · 받은 목록 넣기가 있고 검정 단추는 없다. 파일 꼴(문서 · 표)로 내보내기와 시간 · 일정 파일은 설정에 있다.
   - 회사 카드(큰 창) 첫 화면: 이름 · 부스("자리는 짐작") · 길 안내(검정) · 다녀왔다 · 일기 쓰기 · 공식 쪽, 그 아래 "다른 날로 옮기기"(1/6 ~ 1/9 · 날짜 없음, 1/5는 없다)와 "갈 곳에서 빼기". 부스가 둘 이상이면 자리마다 한 줄이 길 안내 아래에 서고, 이 회사 강연은 누르는 줄 없이 한 칸이다.
   - 지도의 "다음 갈 곳" 띠와 "1/6 갈 곳 5곳만 보는 중 · 모두 보기" 띠는 고른 날의 회사만 본다(그 날 남은 곳이 없으면 아래 띠를 안 보인다). 1/5에는 회사를 넣지 못한다(지도 카드의 "갈 곳에 넣기"에도 없다).
   - 종이 명함 물음은 갈 곳 탭에 없다(설정의 "종이 명함" 줄). 곧 시작하는 내 일정 · 오늘 명함 몇 장은 있을 때만 한 줄 띠로 뜨고 띠의 단추는 글자 단추다.
 - **일기 탭 (6단계):** 맨 위가 "만난 사람"(최근 세 명 · 명함 받기 · 전체), 그 아래 날짜별 일기, 보내기는 한 줄 띠, 검정 단추는 "일기 쓰기" 하나. 줄은 번호(이니셜) · 이름 · 보조 한 줄 · 오른쪽 하나, 자세한 것과 고치기는 큰 카드. 명함은 읽자마자 저장하고 이름은 나중에 적는다.
 - **합친 자리:** 같은 단추를 두 곳에 두지 않는다. 회사 찾기는 지도, 다음에 갈 곳 · 추천 회사 · 내 시간 · 강연 일정은 갈 곳, 듣기 · 대화 칸 · 만난 사람은 일기, 명함 · 종이 명함 · 알림 · 내보내기(일기 · 갈 곳 목록 · 시간 · 일정 파일) · 모은 일기 열기는 설정. 숨기는 층("더 보기" 메뉴)은 만들지 않는다.
+- **일기 쓰기 (11/24, 편의성 점검 6절 3번):** 첫 화면은 "본 것" 칸 + 검정 "폰에 남기기" + 글자 "그만두기"뿐이다. 회사 · 날짜 · 느낀 점 · 사진 · 누구에게 · 대화는 "더 적기" 아래 접는다(줄 전체가 눌리고 글자 옆 꺾쇠가 접힘 · 펼침을 알린다, 52px). 다녀옴에서 열면 제목 아래에 회사 이름 한 줄이 보인다. 고칠 때 적힌 칸이 있으면 펴 두고, 접힌 칸이 틀리면 펴고 그 칸으로 간다. 접는 것은 꼭 적지 않아도 되는 칸뿐이다(기능을 숨기는 "더 보기" 메뉴가 아니다).
 - **일기 사진 (R49):** 일기 쓰기 칸의 "사진 (한 장, 선택)"에서 "사진 넣기"로 고르면 폰에서 줄여(긴 변 1024px · 150KB 안) 미리 보이고, "사진 빼기"로 뺀다. 칸 폭 안에 들게 가로를 꽉 채우고 모서리는 `--radius-ctl`. 카드에는 사진과 "이 폰에만" 한 줄. 저장 공간이 모자라면 쓰기 칸 맨 아래에 한 줄(오류 색 글자).
 - **누르는 곳:** 44px 이상, 주요 단추 52px, 바로 가기 84px, 탭 68px. 글 속 링크도 가로 44px 이상으로 눌린다. 주요 단추는 아래(탭 바로 위)에 둔다.
 - **걸으면서 읽히는 글:** 본문 16, 제목 24(한 줄, 탭 이름과 겹치면 뺀다), 다음에 갈 곳의 회사 이름 24, 갈 곳의 날짜 한 줄 22, 탭 이름 13. 13px보다 작게 쓰지 않는다(12px 글자는 없다).

diff --git a/docs/디자인/편의성_점검.md b/docs/디자인/편의성_점검.md
@@ -211,3 +211,29 @@ PELOVA 점검 범위: `pelova_design_check`는 design.md 색 대비만 보았다
 판에서 뺀 것: 위치를 못 쓸 때의 "내 위치 잡기". 허락하지 않은 브라우저는 다시 눌러도 묻지 않아 막힌 길이었다. GPS를 다시 묻는 단추는 아래 "내 위치" 묶음의 "GPS로 찾기"에 그대로 있다. 전시장 밖일 때의 "다시 잡기 · 구글맵 · 끝내기"는 그대로다.
 
 남은 것: 큰 글자(가장 크게)에서 다른 캠퍼스 판은 "끝내기"가 둘째 줄로 내려가 판이 255px(전 195px)로 커진다. 지도는 그만큼 덜 보인다.
+
+### 8.3 일기 쓰기 줄이기 (6절 3 · 12번)
+
+일기 쓰기는 두 길로 쟀다: 일기 탭에서 새로 쓰기(`#/diary/new`)와 다녀옴 띠 · 회사 카드에서 열기(`#/diary/new/<회사>`). 띠는 1/6에 다섯 곳을 넣고 첫 곳에서 "다녀왔다"를 누른 뒤 쟀다. y는 화면 맨 위에서 잰 가운데 높이다(화면 740, 아래 탭 위까지가 보이는 곳).
+
+| 잰 것 | 전 | 후 |
+|---|---|---|
+| 일기 쓰기 첫 화면에서 누를 곳 | 14 (칸 아홉 + 단추) | 4 (본 것 · 더 적기 · 폰에 남기기 · 그만두기) |
+| "폰에 남기기"가 있는 곳 (새로 쓰기) | y 945(글자 가장 크게: 1091) — **화면 밖** | y 394(가장 크게: 462), 149 × 52(390px: 164 × 52) — 굴리지 않는다 |
+| "폰에 남기기"가 있는 곳 (다녀옴에서 열기) | y 971(가장 크게: 1117) — **화면 밖** | y 421(가장 크게: 498) |
+| 다녀온 뒤 일기를 남길 때까지 | 다녀왔다 → 띠의 일기 쓰기 → 적기 → 굴리기 한 번 → 폰에 남기기 | 다녀왔다 → 띠의 일기 쓰기 → 적기 → 폰에 남기기(누른 수 3, 굴리기 0) |
+| 엄지가 닿나 | 굴려야 닿는다 | 화면 가운데(y 394 ~ 498)라 닿는다. 자판이 올라오면 자판 위에 남는지는 실제 폰에서 봐야 한다 |
+| 어느 회사 일기인지 | 회사 칸(고르는 칸)에 채워져 있다 | 제목 아래 한 줄(회사 칸은 "더 적기" 안에 그대로 채워져 있다) |
+| "더 적기"를 편 길이 | — | 문서 높이 1173(전 1109: 한 줄 64가 늘었다). 누를 곳 15 |
+| 적힌 칸이 있는 일기를 고칠 때 | 다 보인다 | 펴 둔다(회사 · 느낀 점 · 사진 · 누구에게 · 들은 글 가운데 하나라도 있으면). 본 것만 있는 일기는 접어 둔다 |
+| 다녀옴 띠가 떠 있는 때 | 6초 | 다음에 무엇을 누를 때까지(6초가 지나도 있다) |
+| 띠가 덮는 줄 | 굴리지 않으면 "목록 고치기 · 지도에서 보기", 끝까지 굴리면 "강연 일정 · 추천 회사 · 내 시간" — 어디로 굴려도 한 줄은 덮인다 | 아래 여백이 64px(띠 52 + 12) 늘어 끝까지 굴리면 덮는 줄이 0. 굴리지 않은 채로는 전처럼 "목록 고치기 · 지도에서 보기" 위에 뜬다 |
+| 옆으로 밀림 · 44px 못 미침 · 보이는 검정 단추 | — | 0 · 0 · 1 (360 · 390px × 밝게 · 어둡게 × 글자 네 단계 16가지, 접은 것 · 편 것 모두) |
+
+| 전 (새로 쓰기) | 후 (새로 쓰기) | 후 (다녀옴에서 열기) | 후 (더 적기를 편 것) | 후 (띠, 끝까지 굴림) |
+|---|---|---|---|---|
+| ![전](그림/편의-11-일기쓰기.png) | ![후](../screens/205-diary-short-360.png) | ![회사](../screens/205-diary-short-company-360.png) | ![편 것](../screens/206-diary-more-open-360.png) | ![띠](../screens/207-where-toast-stays-360.png) |
+
+안과 다르게 한 것: 없다. 접은 칸에 회사 · 날짜도 넣었다(미리 채워지는 칸이라 첫 화면에서 고칠 일이 드물다). 접힌 채 남겨도 회사 · 날짜 · 마지막에 고른 "누구에게"는 같이 저장된다.
+
+남은 것: 띠는 굴리지 않은 첫 화면에서 여전히 "목록 고치기 · 지도에서 보기" 줄 위에 뜬다(넣은 곳이 다섯인 날). 굴리거나 다른 곳을 누르면 풀린다. 띠가 뜰 때 화면을 저절로 굴리는 것은 안에 없어 하지 않았다.

diff --git a/README.md b/README.md
@@ -65,7 +65,7 @@ cargo run -p ces-data -- sort-diary --in <폴더나 파일> --out 한장.md   # 
 - **아래 탭은 넷 (11/22, 다시 짓기 2단계):** 지도 · 갈 곳 · 일기 · 설정(둘째 탭은 11/23에 "동선"에서 "갈 곳"으로 이름을 바꿨다). 앱을 열면 지도(명함이 없으면 명함부터). 회사 찾기는 지도 위 찾기 칸, 다음에 갈 곳 · 관심 · 추천 회사(`#/rec`) · 내 시간(`#/days`) · 강연 일정(`#/sessions`)은 갈 곳, 셔틀 · 오가는 법(`#/transit`)은 지도, 듣기 · 대화 칸 · 만난 사람은 일기, 명함 · 화면 색 · 알림 · 인터넷 없이 · 내보내기는 설정에 있다. 첫 화면 · 회사 탭 · 따로 신청 · 현장 안내 · 물어보기 · 주제 판 · 알아둘 것은 지웠다. 화면마다 제목 한 줄 + 꼭 필요한 한두 줄, 긴 목록은 칩 한 줄로 한 번에 한 묶음. 화면 색은 자동(폰 설정을 따름) · 밝게 · 어둡게(`web/theme.js` · `web/tokens.css`), 탭마다 강조색이 하나다. 기준은 [design.md](design.md), 탭 넷 사진은 `docs/screens/70 ~ 73`.
 - **전시사 목록 (11/23, R53):** 지도 칩 줄 맨 앞 "목록"(`#/list`). 공식 앱의 전시사 A–Z 목록처럼 이름순(위에 붙은 글자 줄) · 부스순으로 보고 혁신상 · 한국 · 위치 · 나라 · 분야로 거른다. 줄을 누르면 지도에서 카드, 줄의 "관심"으로 바로 담는다.
 - **세션 찾기 · 거르기 (11/23, R54):** 세션 일정의 날짜 칩 아래 거르기 칩(기조연설 · 생중계 · 내 일정 · 분야). 지도 찾기 칸에 영어 낱말을 넣으면 세션도 두 줄까지 나온다.
-- **갈 곳 (11/23, R55, 안 1):** 동선 탭을 "갈 곳"으로 다시 지었다. 날짜 한 줄(‹ 1월 6일 (수) · 남은 4곳 ›, 남은 곳 수는 11/24에 더했다) → 다음에 갈 곳 한 곳 크게(길 안내 · 다녀왔다) → 그다음 곳들 → 다녀온 곳 접기 → "목록 고치기 · 지도에서 보기". "다녀왔다"를 누르면 "일기 쓰기"가 6초 뜬다. 1/5(전시 전날)에는 회사를 넣지 못하고 내 일정만 보인다. 문서 · 표 파일로 내보내기와 시간 · 일정 파일은 설정으로 옮겼다. 기준은 [docs/디자인/동선_쉽게_안.md](docs/디자인/동선_쉽게_안.md), 사진은 `docs/screens/190` ~ `198`.
+- **갈 곳 (11/23, R55, 안 1):** 동선 탭을 "갈 곳"으로 다시 지었다. 날짜 한 줄(‹ 1월 6일 (수) · 남은 4곳 ›, 남은 곳 수는 11/24에 더했다) → 다음에 갈 곳 한 곳 크게(길 안내 · 다녀왔다) → 그다음 곳들 → 다녀온 곳 접기 → "목록 고치기 · 지도에서 보기". "다녀왔다"를 누르면 "일기 쓰기"가 다음에 무엇을 누를 때까지 뜬다(11/24, 전: 6초). 1/5(전시 전날)에는 회사를 넣지 못하고 내 일정만 보인다. 문서 · 표 파일로 내보내기와 시간 · 일정 파일은 설정으로 옮겼다. 기준은 [docs/디자인/동선_쉽게_안.md](docs/디자인/동선_쉽게_안.md), 사진은 `docs/screens/190` ~ `198`.
 - **새 판:** 폰이 새 판을 받으면 탭 위에 "새 판이 있다 · 다시 열기"가 뜬다.
 - **시간과 일정:** 날마다 쓸 시간(기본은 CES 공식 전시 시간)과 전시 밖 일정은 폰에만 남고, 작은 파일로 주고받는다. 파일의 꼴은 [docs/내일정_파일.md](docs/내일정_파일.md). 우리 일정은 이 레포에 적지 않는다.
 - **공식 앱 기준표:** CES 공식 앱의 기능이 우리 앱에 있는지 줄마다 적었다(2026-11-22에 앱 살펴보기 7줄과 웹 플래너 7줄을 더해 34줄, 2026-11-23 전시사 목록(R53) · 세션 거르기(R54) 뒤 **됨 10 · 일부 14 · 없음 10**): [docs/공식앱_기준표.md](docs/공식앱_기준표.md). 코드로 되는 것 · 사람과 현장이 필요한 것 · 규칙상 안 하는 것으로 나눈 표가 있다.

diff --git a/작업.md b/작업.md
@@ -700,6 +700,19 @@
 - 남은 것(사람 · 실제 폰): 아이폰 Safari에서 판의 칸에 글자를 넣을 때 자판이 판을 가리지 않는지 · 전시장 Wi-Fi에서 구글맵 앱이 바로 열리는지
 - PR: https://github.com/gamercross/ces-2027/pull/95
 
+### 3. 일기 쓰기 줄이기 (6절 3 · 12번)
+
+- [x] **첫 화면:** 일기 쓰기는 "본 것" 칸 + 검정 "폰에 남기기" + 글자 "그만두기"뿐이다. 회사 · 날짜 · 느낀 점 · 사진 · 누구에게 · 대화는 "더 적기" 아래 접는다. 다녀옴에서 열 때도, 일기 탭에서 새로 쓸 때도 같다
+- [x] **어느 회사 일기인지:** 다녀옴에서 열면 제목 아래에 회사 이름 한 줄이 보인다(회사 칸은 "더 적기" 안에 채워져 있다). 접힌 채 남겨도 회사 · 날짜 · 마지막에 고른 "누구에게"가 같이 저장된다
+- [x] **고칠 때:** 적힌 칸(회사 · 느낀 점 · 사진 · 누구에게 · 들은 글)이 있으면 펴 둔다. 본 것만 있는 일기는 접어 둔다. 적다 만 느낀 점이 돌아올 때도 펴 둔다. 접힌 칸이 틀리면(날짜가 빔) 펴고 그 칸으로 간다
+- [x] **다녀옴 띠:** "OO 다녀왔다 · 일기 쓰기"가 6초 대신 다음에 무엇을 누를 때까지 있다. 띠가 있는 동안 화면 아래 여백을 띠 높이만큼(64px) 늘려, 끝까지 굴리면 "목록 고치기 · 지도에서 보기" 줄을 덮지 않는다(6절 12번). "OO 뺐다 · 되돌리기"는 전처럼 6초다
+- 안과 다르게 한 것: 없다
+- 잰 값(전 → 후, 360 × 740): 일기 쓰기 첫 화면에서 누를 곳 **14 → 4**. "폰에 남기기" 가운데 y **945(화면 밖) → 394**, 글자 가장 크게 1091 → 462. 다녀옴에서 열면 971 → 421(가장 크게 1117 → 498). 남길 때까지 굴리기 **1 → 0**. 띠가 덮는 줄: 끝까지 굴려도 한 줄은 덮임 → 끝까지 굴리면 0. 옆으로 밀림 0 · 44px 못 미침 0 · 보이는 검정 단추 하나
+- 시험: smoke 214 통과(전 213, "일기 쓰기 첫 화면" 한 줄) · `scripts/browser-diary.mjs` 60가지 통과(전 31: 첫 화면 넷 · 펴기 · 접기 · 다녀옴에서 열기 · 접힌 채 저장 · 고칠 때 · 접힌 칸이 틀릴 때 · 적다 만 글 · 360 · 390px × 밝게 · 어둡게 × 글자 네 단계) · `browser-plan` 115(전 113: 띠가 6초 뒤에도 있음 · 아래 여백 · 다음 누름에 사라짐) · `browser-text`("일기 쓰기 더 적기" 화면을 더했다) · `browser-phone` 151 · `browser-photo` · `browser-finish` · `browser-first-card` 통과 · `tests/offline.mjs` 예상과 같다 · 보드 check 잘못 0 · 경고 0
+- 사진(360px): `docs/screens/205-diary-short-360.png`(새로 쓰기) · `205-diary-short-company-360.png`(다녀옴에서 열기) · `205-diary-short-dark-360.png` · `205-diary-short-text4-360.png`(가장 큰 글자) · `206-diary-more-open-360.png`(편 것) · `207-where-toast-stays-360.png`(6초 뒤의 띠, 끝까지 굴림)
+- 남은 것(사람 · 실제 폰): 아이폰 Safari에서 자판이 올라왔을 때 "폰에 남기기"가 자판 위에 남는지 · 처음 보는 팀원이 "더 적기"에 회사 · 사진이 있음을 아는지
+- PR: (열면 적는다)
+
 ## 내 명함에 링크드인 칸 + QR (11/24, 요구 R56)
 
 근거: 이재엽이 CES에 다녀온 사람들 이야기를 듣고 적은 메모 "링크드인 필수 · 링크드인 QR 공유 활발"과 버튼 "링크드인 QR만 먼저". 이재엽이 11/24 밤에 병합을 정했다. 이슈는 없다.

diff --git a/docs/테스터_안내.md b/docs/테스터_안내.md
@@ -174,7 +174,7 @@
 1. 일기 탭을 연다. 맨 위 묶음에 "만난 사람 n명"과 최근 세 명, "명함 받기"가 있는지 본다.
 2. "명함 받기"를 누르고 "카메라 켜기"로 다른 폰의 QR을 읽는다(카메라가 안 되는 폰이면 "주소 붙여넣기"). 읽자마자 폰에 남고 "이름 적기" 카드가 열리는지, 같은 QR을 다시 읽으면 새 줄 없이 "이미 있다"가 나오는지 본다.
 3. 만난 사람 줄을 눌러 카드를 열고 "고치기" · "지우기"를 해 본다. 줄 오른쪽의 "열기"가 그 사람의 연락처를 여는지 본다.
-4. "일기 쓰기"에서 "본 것"만 한 줄 적고 "폰에 남기기"를 눌러도 저장되는지, 적다가 앱을 닫았다 열면 적던 글이 돌아오는지 본다.
+4. "일기 쓰기"를 열면 "본 것" 칸과 "폰에 남기기"가 굴리지 않고 보이는지, "더 적기"를 누르면 회사 · 날짜 · 느낀 점 · 사진 · 누구에게 · 대화가 펴지는지 본다. "본 것"만 한 줄 적고 "폰에 남기기"를 눌러도 저장되는지, 적다가 앱을 닫았다 열면 적던 글이 돌아오는지 본다.
 5. 일기 줄을 눌러 카드를 열어 본다. 아래 띠의 "보내기"를 누르면 파일이 내려오는지 본다.
 
 ### 12. 글자 크기와 설정
